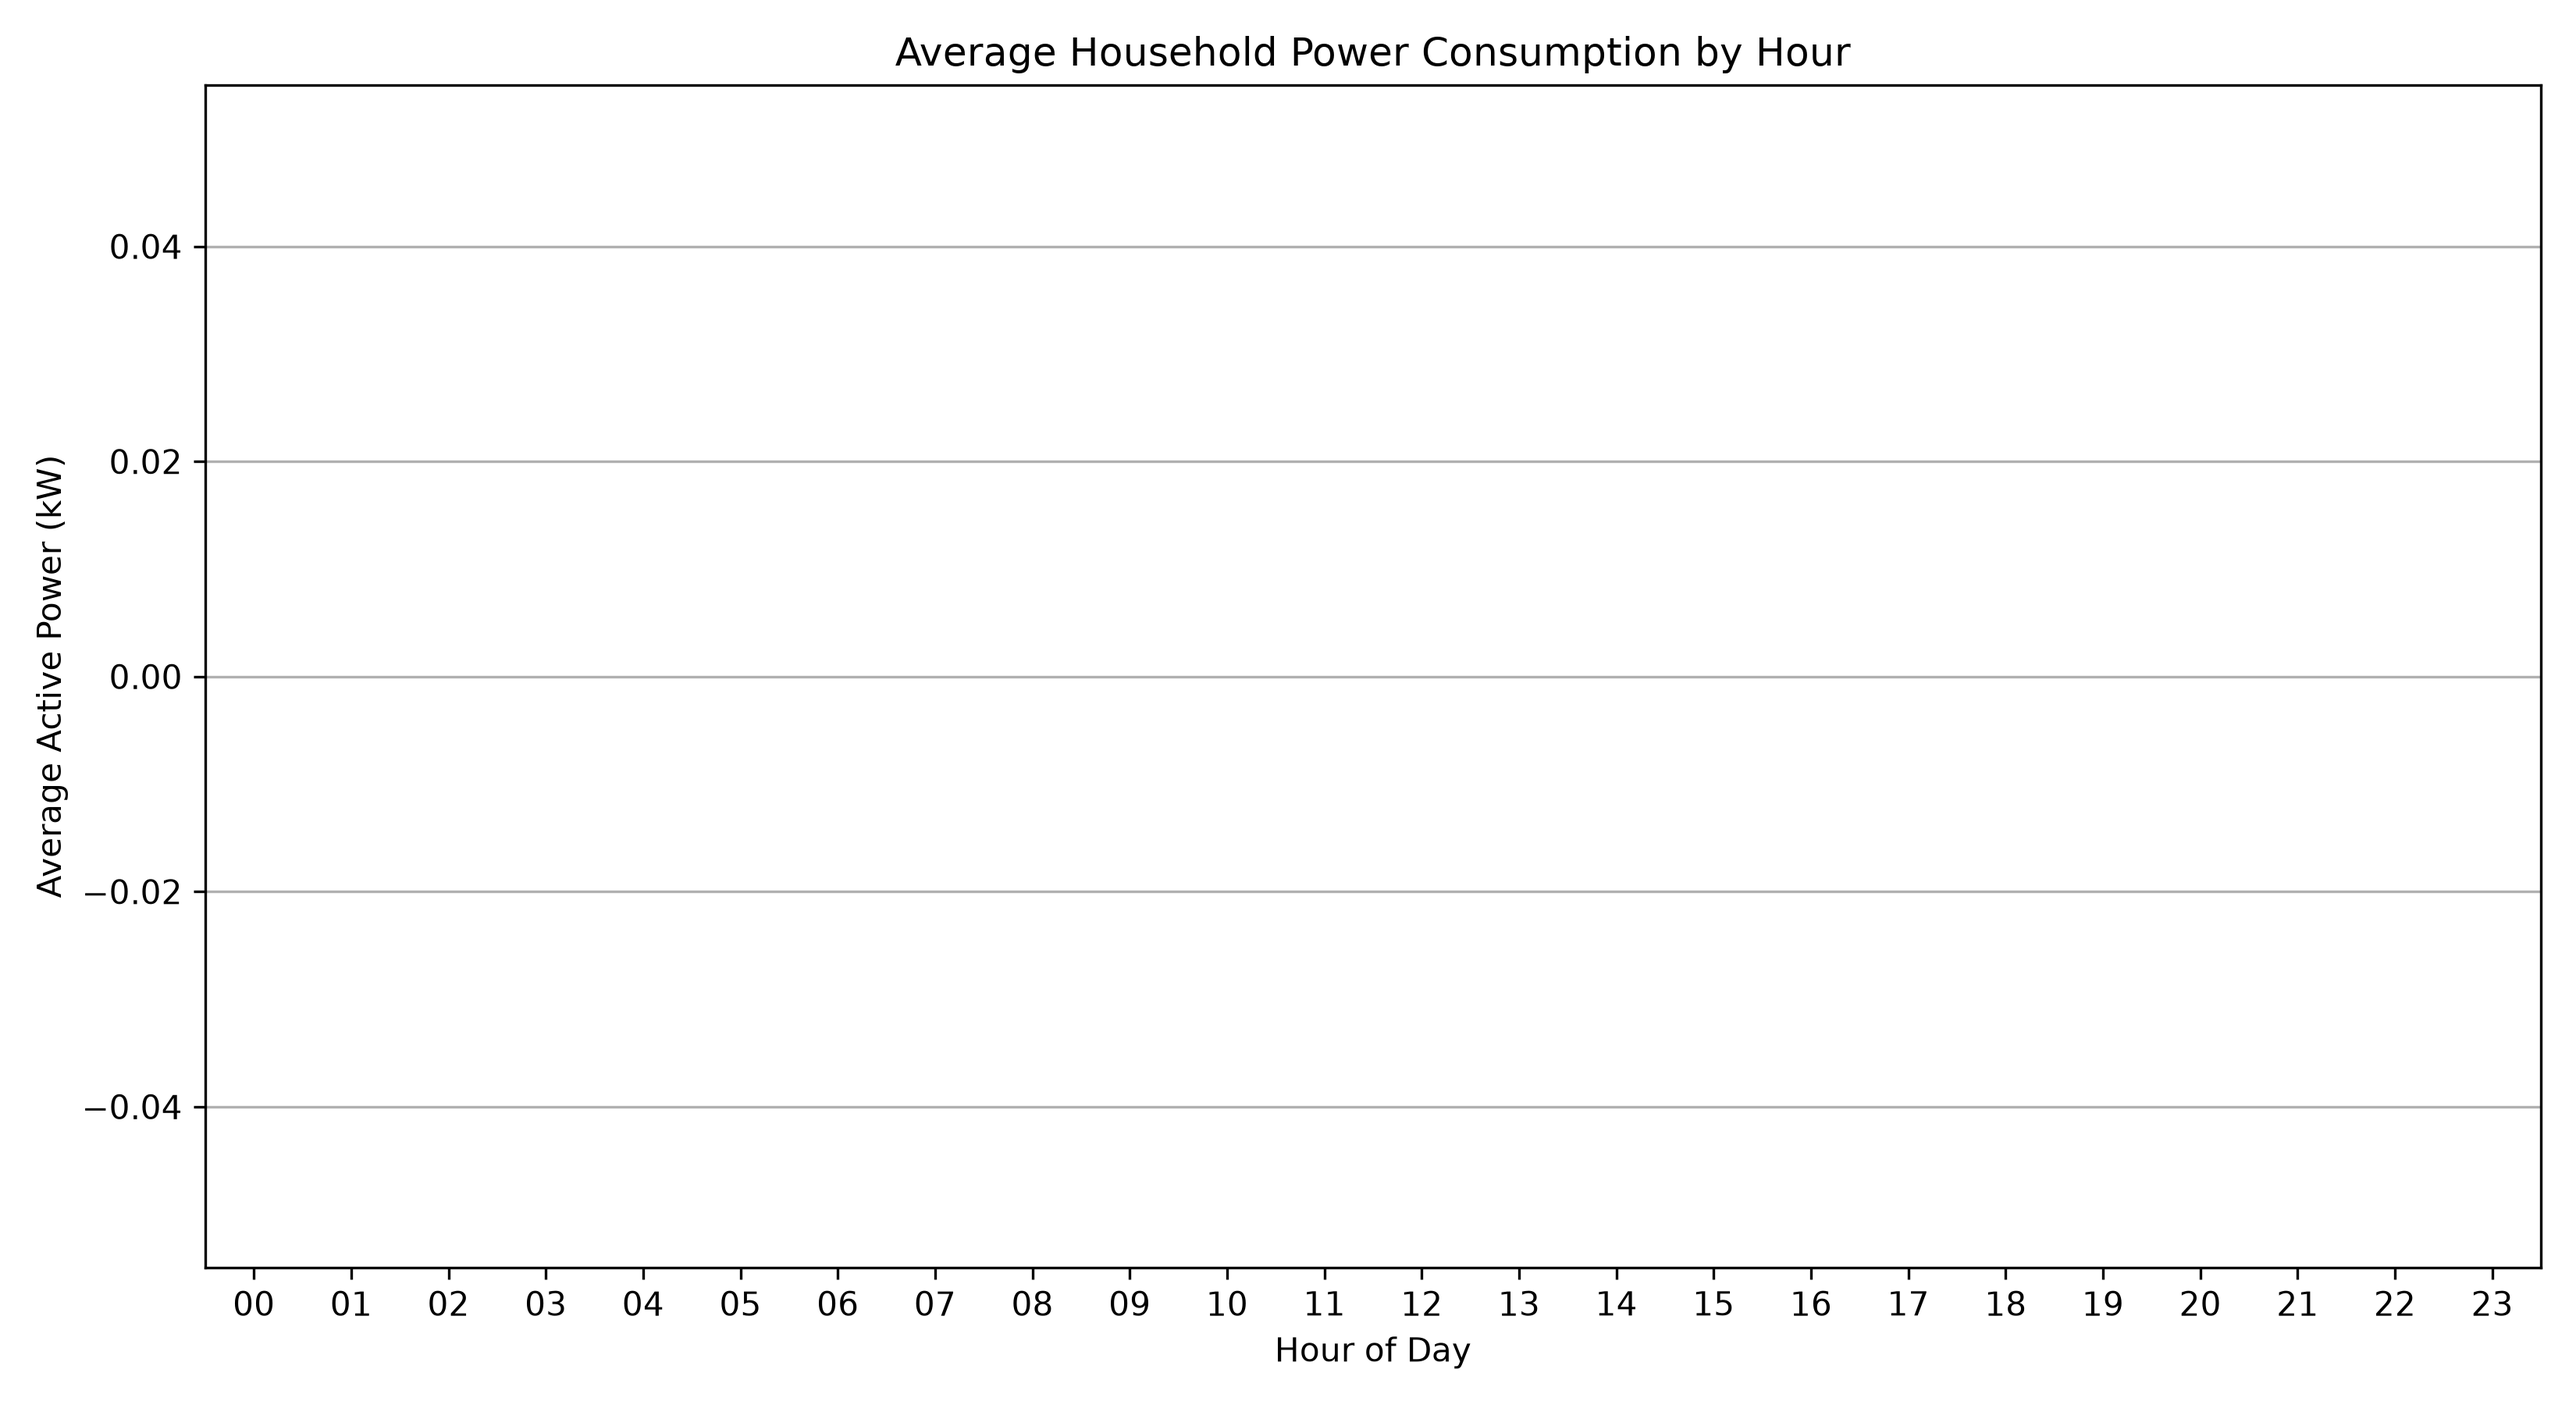
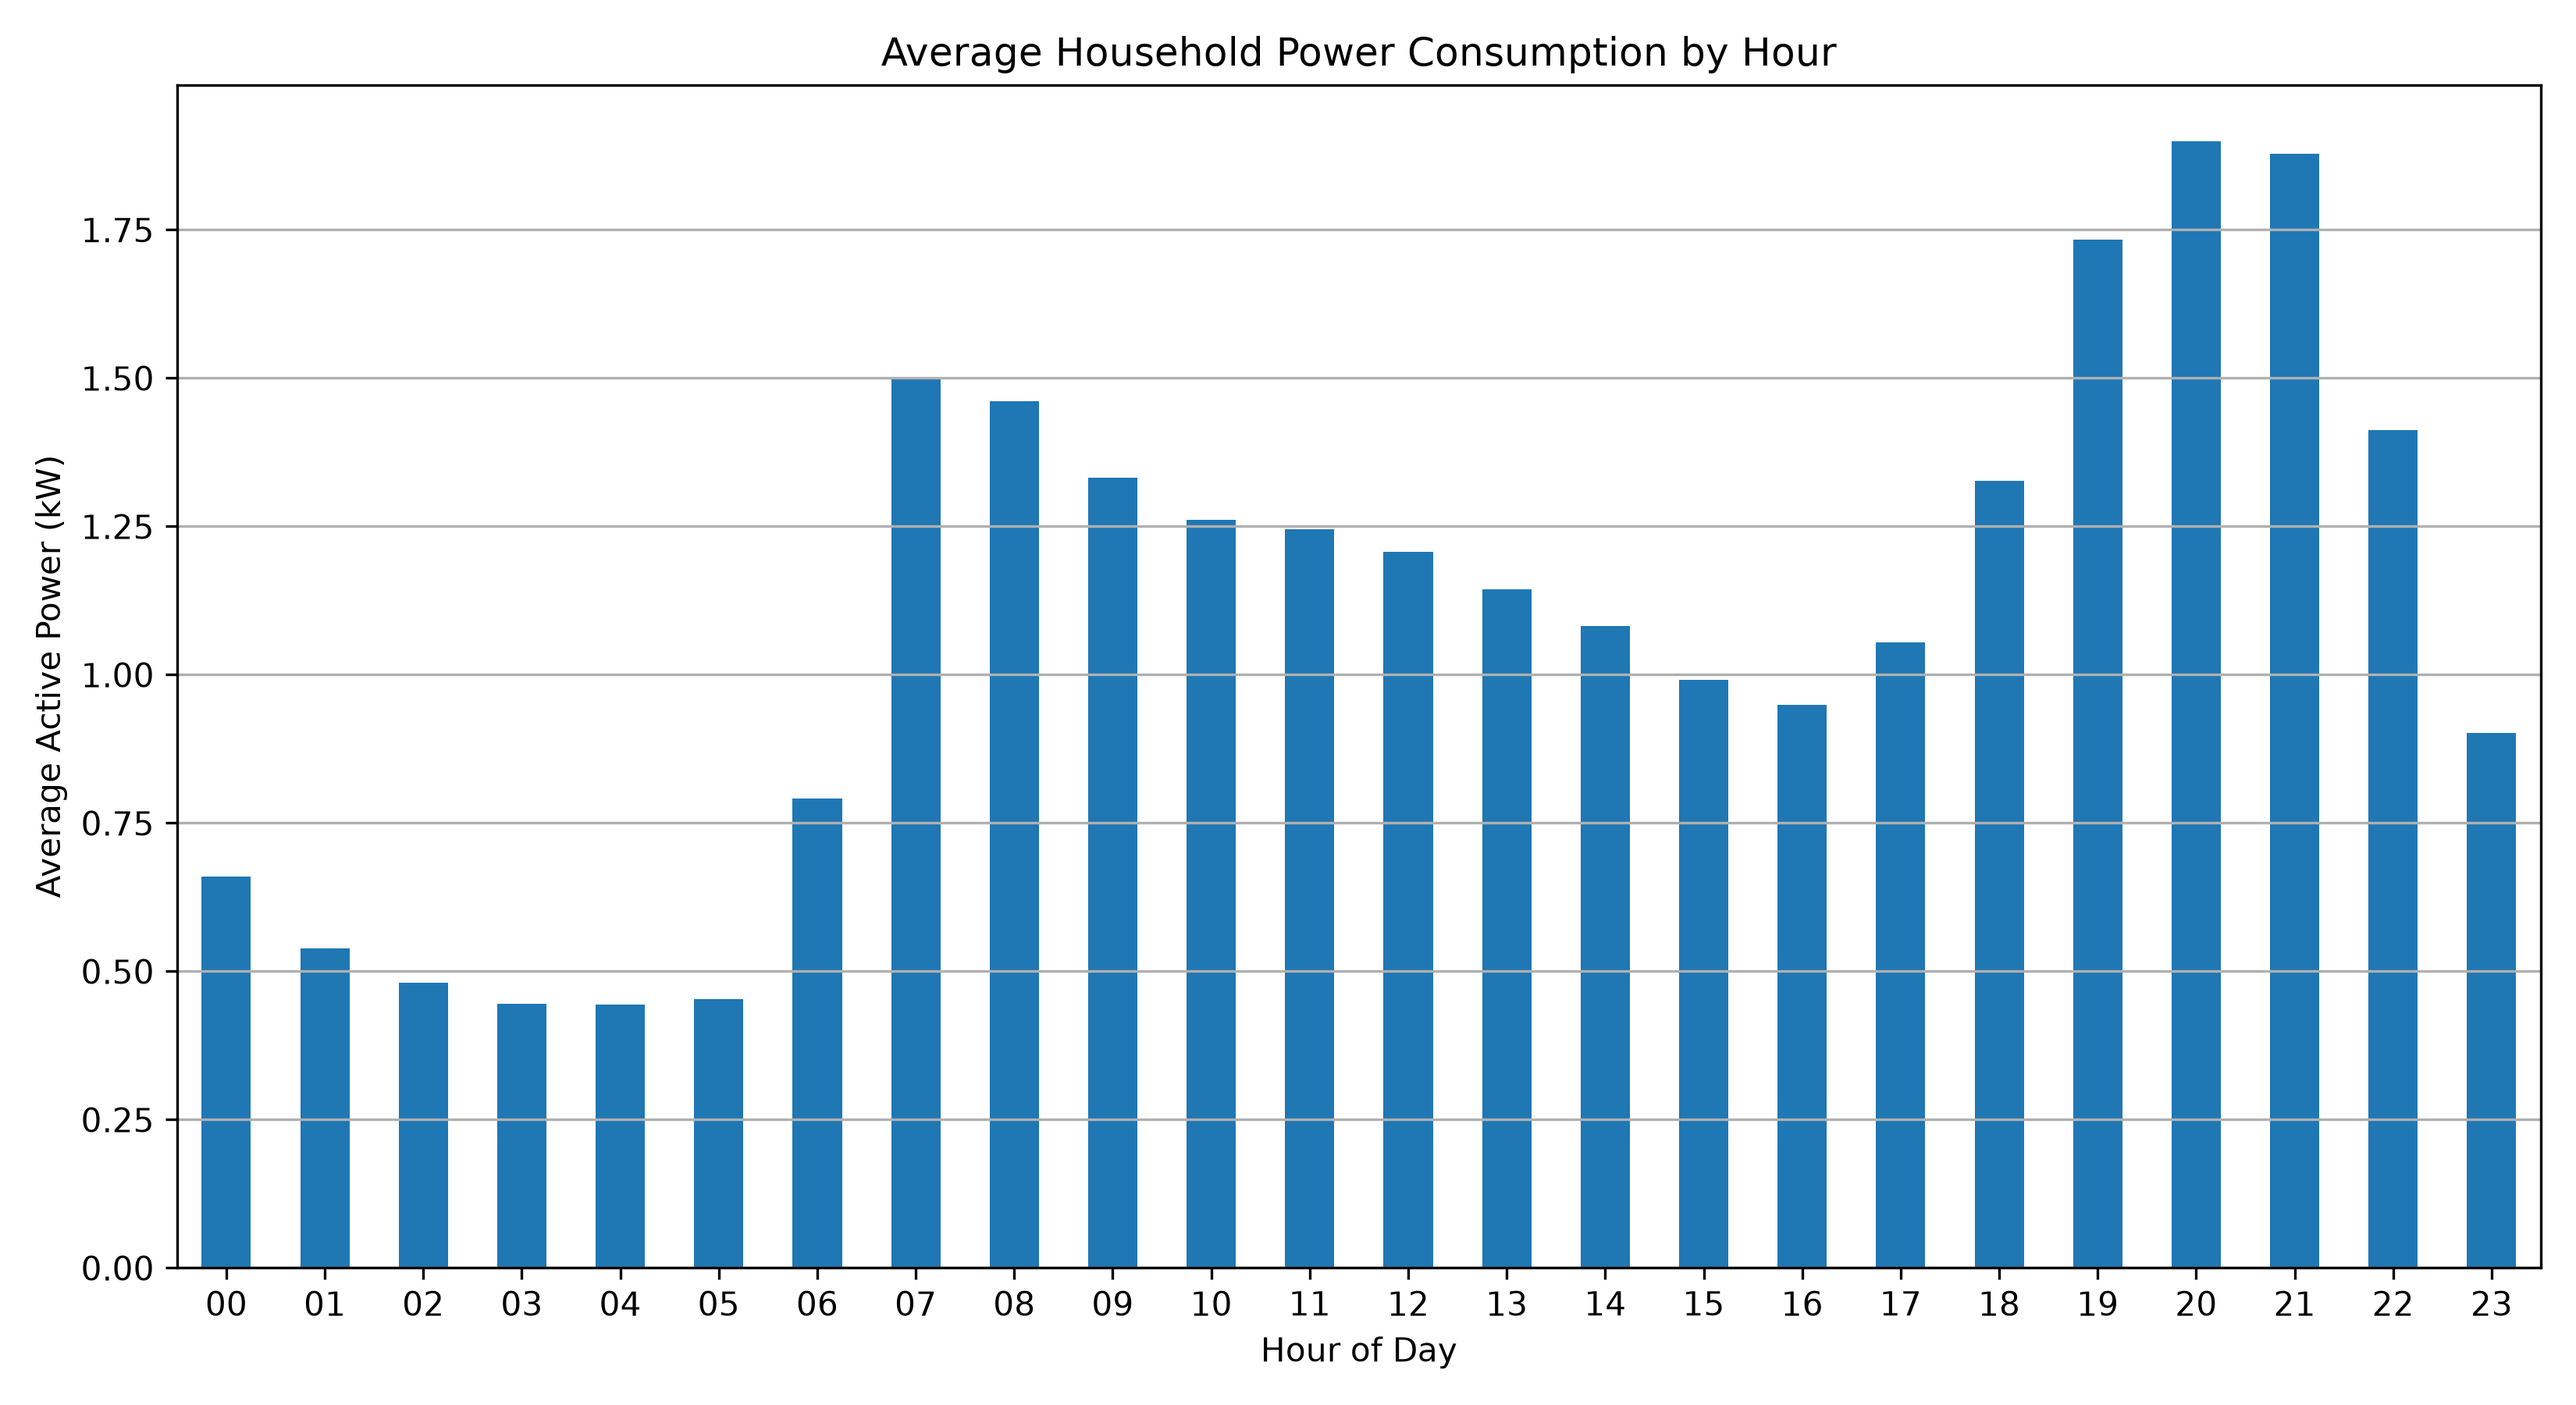
Fix hourly consumption visualization and weighted averages

diff --git a/visualizations/generate_visualizations.py b/visualizations/generate_visualizations.py
@@ -52,22 +52,65 @@ plt.tight_layout()
 plt.savefig(os.path.join(OUTPUT_DIR, "daily_consumption.png"), dpi=300)
 plt.close()
 
+
 # 3. Average Consumption by Hour
-hourly_pattern = hourly.groupby("hour")["average_power_kw"].mean()
-hourly_pattern = hourly_pattern.reindex(
-    [f"{i:02d}" for i in range(24)]
+
+# Convert columns to numeric values
+hourly["hour"] = pd.to_numeric(hourly["hour"], errors="coerce")
+hourly["average_power_kw"] = pd.to_numeric(
+    hourly["average_power_kw"], errors="coerce"
 )
+hourly["readings"] = pd.to_numeric(
+    hourly["readings"], errors="coerce"
+)
+
+# Remove invalid records
+hourly_valid = hourly.dropna(
+    subset=["hour", "average_power_kw", "readings"]
+).copy()
+
+hourly_valid = hourly_valid[
+    hourly_valid["hour"].between(0, 23)
+    & (hourly_valid["readings"] > 0)
+]
+
+# Calculate weighted average power for each hour
+hourly_valid["weighted_power"] = (
+    hourly_valid["average_power_kw"] * hourly_valid["readings"]
+)
+
+hourly_pattern = hourly_valid.groupby("hour").agg(
+    total_weighted_power=("weighted_power", "sum"),
+    total_readings=("readings", "sum")
+)
+
+hourly_pattern["average_power_kw"] = (
+    hourly_pattern["total_weighted_power"]
+    / hourly_pattern["total_readings"]
+)
+
+# Ensure all 24 hours are represented
+hourly_pattern = hourly_pattern.reindex(range(24))
+
+# Retain the calculated average for plotting
+hourly_pattern = hourly_pattern["average_power_kw"]
 
 plt.figure(figsize=(11, 6))
 hourly_pattern.plot(kind="bar")
+
 plt.title("Average Household Power Consumption by Hour")
 plt.xlabel("Hour of Day")
 plt.ylabel("Average Active Power (kW)")
-plt.xticks(rotation=0)
+plt.xticks(range(24), [f"{i:02d}" for i in range(24)], rotation=0)
 plt.grid(axis="y")
 plt.tight_layout()
-plt.savefig(os.path.join(OUTPUT_DIR, "hourly_consumption.png"), dpi=300)
+
+plt.savefig(
+    os.path.join(OUTPUT_DIR, "hourly_consumption.png"),
+    dpi=300
+)
 plt.close()
+
 
 # 4. Top 10 Peak Demand Readings
 top_peaks = peaks.head(10).copy()

diff --git a/dashboard.py b/dashboard.py
@@ -555,22 +555,29 @@ with tab2:
     st.subheader("Average Power Consumption by Hour")
 
     if not filtered_hourly.empty:
+               hourly_data = filtered_hourly.copy()
 
-        hourly_pattern = (
-            filtered_hourly.groupby("hour")
-            .apply(
-                lambda group: (
-                    (group["average_power_kw"] *
-                     group["readings"]).sum() /
-                    group["readings"].sum()
-                    if group["readings"].sum() > 0 else 0
-                ),
-                include_groups=False
-            )
-            .reindex(range(24))
-            .dropna()
-            .reset_index(name="average_power_kw")
-        )
+               hourly_data["weighted_power"] = (
+                  hourly_data["average_power_kw"] * hourly_data["readings"]
+                 )
+
+               hourly_pattern = hourly_data.groupby("hour").agg(
+                  total_weighted_power=("weighted_power", "sum"),
+                  total_readings=("readings", "sum")
+                 )
+
+               hourly_pattern["average_power_kw"] = (
+               hourly_pattern["total_weighted_power"]
+               / hourly_pattern["total_readings"]
+                 )
+
+               hourly_pattern = hourly_pattern.reindex(range(24))
+
+               hourly_pattern = (
+                   hourly_pattern[["average_power_kw"]]
+                   .dropna()
+                   .reset_index()
+                   )
 
         fig = px.bar(
             hourly_pattern,
